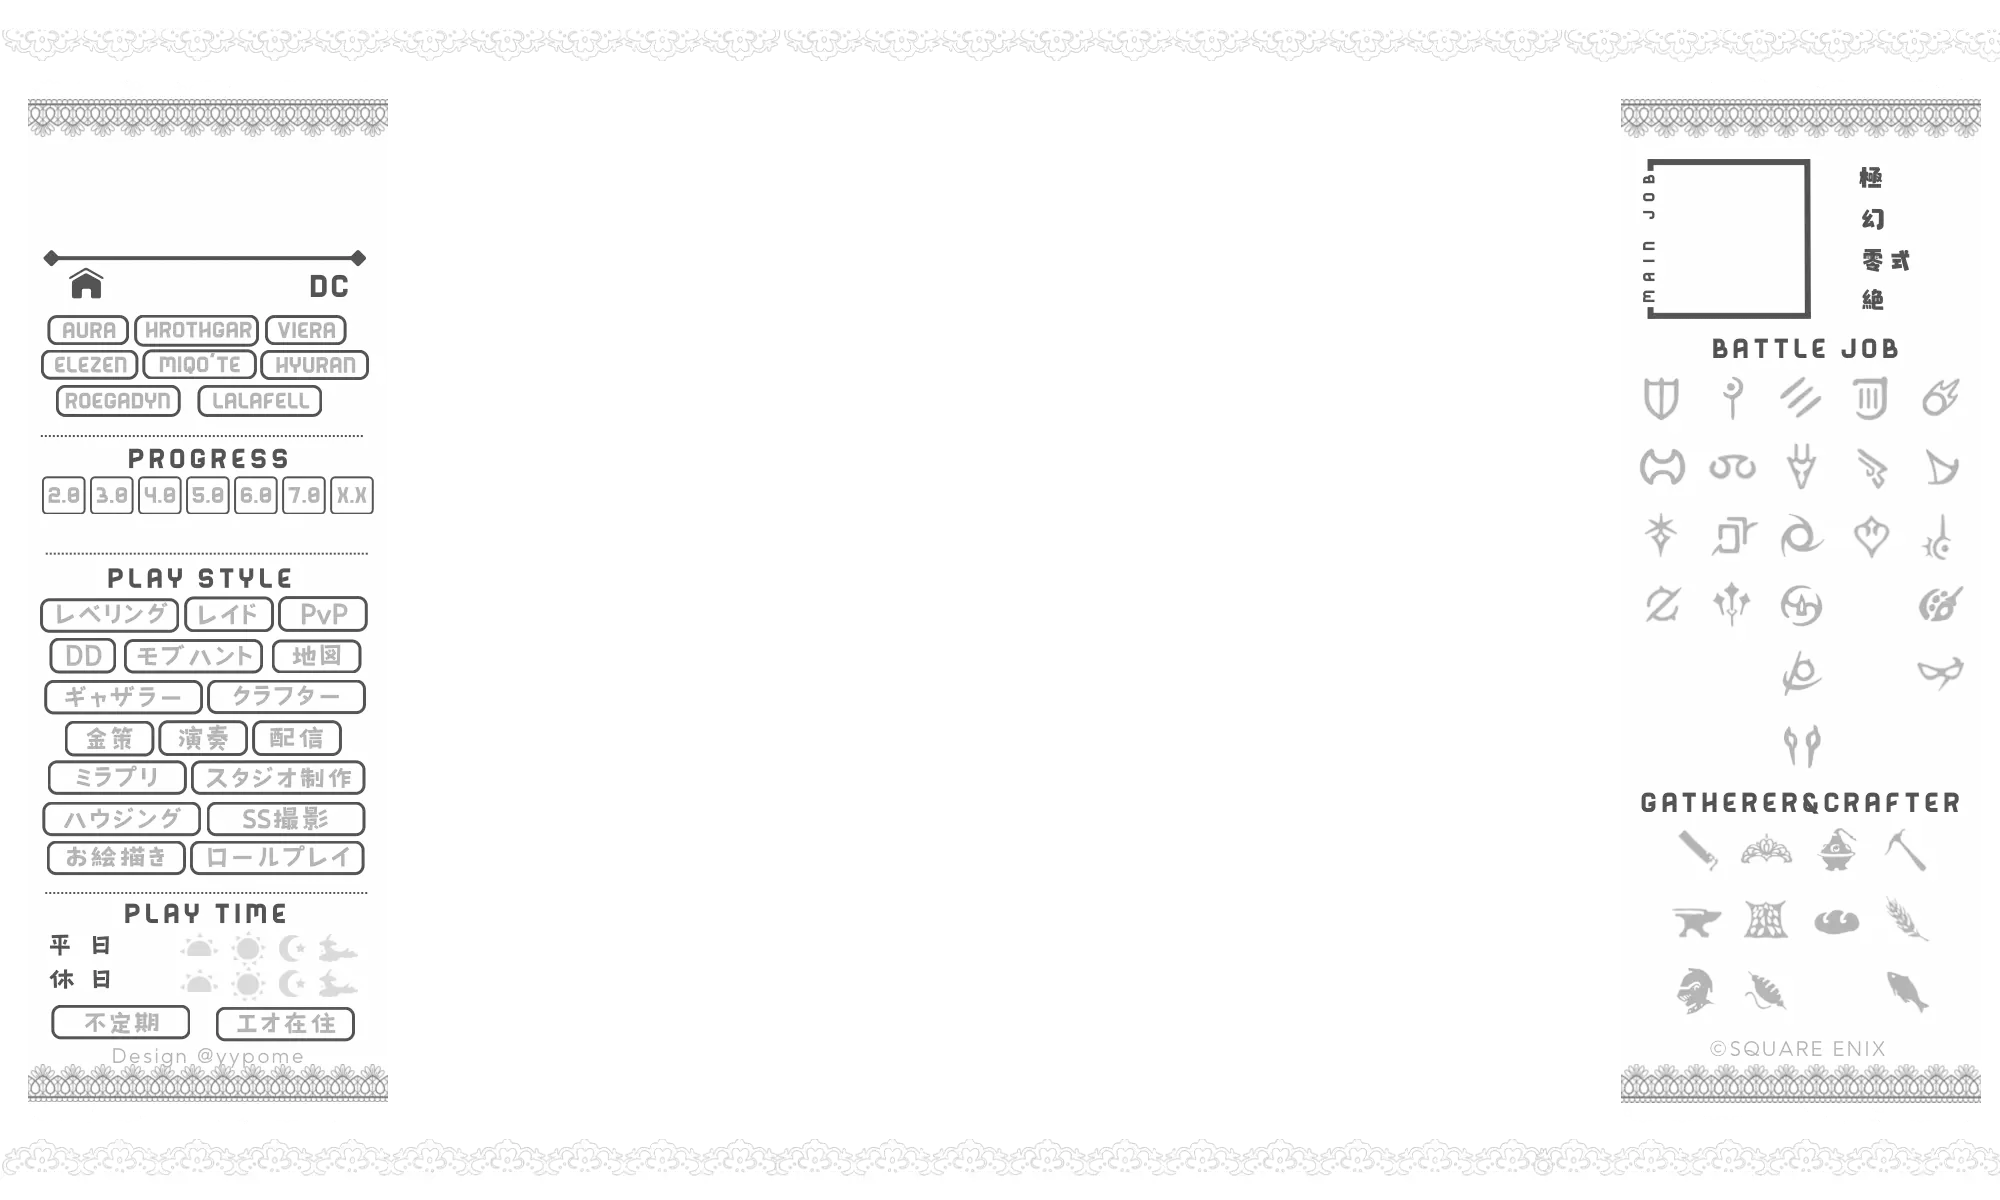
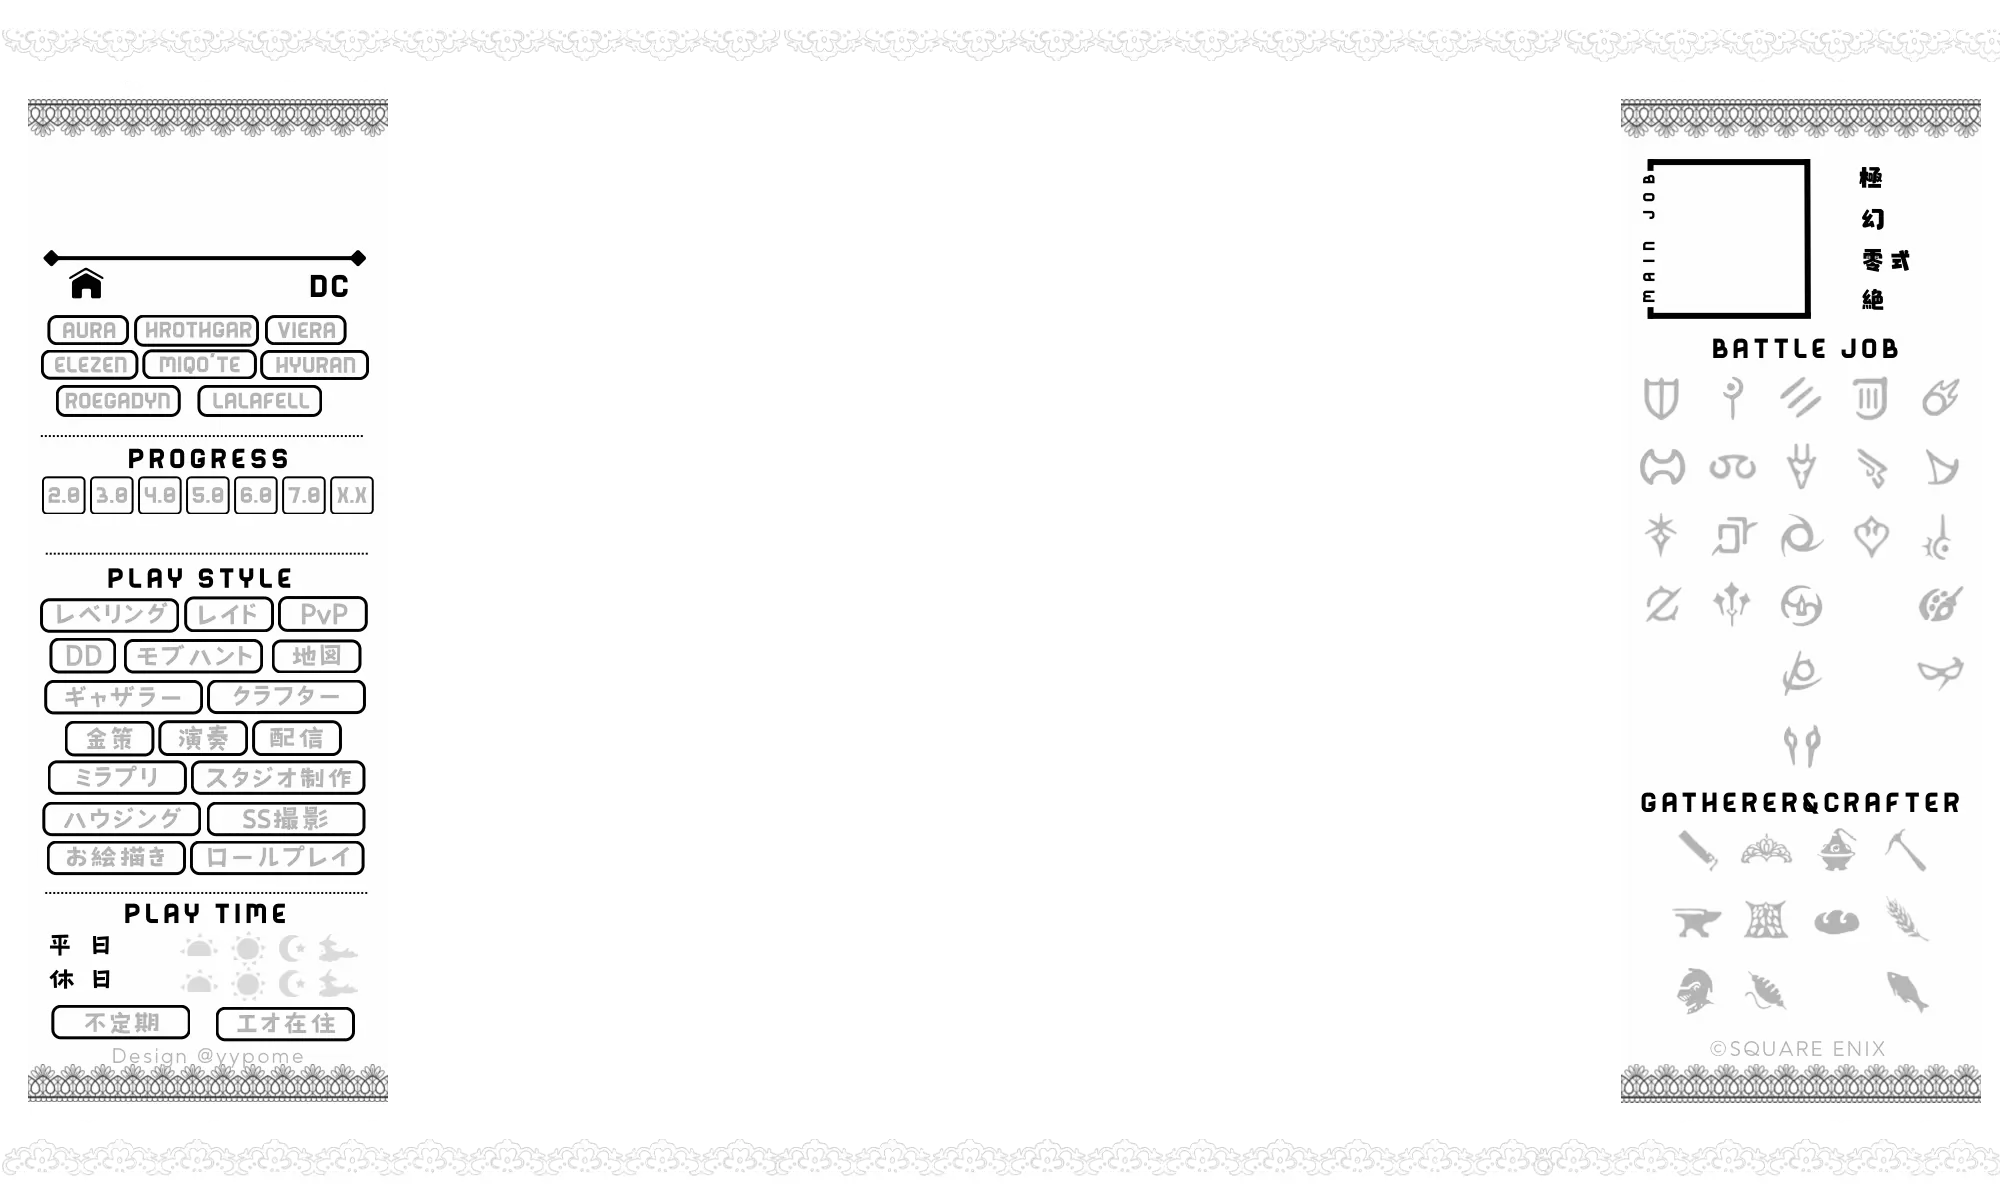
カラーピッカーのアイコンカラー変更、Gothicwhite変更

diff --git a/assets/css/style.css b/assets/css/style.css
@@ -378,7 +378,7 @@ input[type="checkbox"]:checked + span::after {
 
 .sticky-drawer {
     position: fixed;
-    top: 473px;
+    top: 490px;
     right: 0;
     transform: translateY(0);
     z-index: 1500;
@@ -401,7 +401,7 @@ input[type="checkbox"]:checked + span::after {
     justify-content: center;
     align-items: center;
     cursor: pointer;
-    color: var(--primary-color);
+    color: #f4b25c;
 }
 .drawer-panel {
     padding: 1rem;
